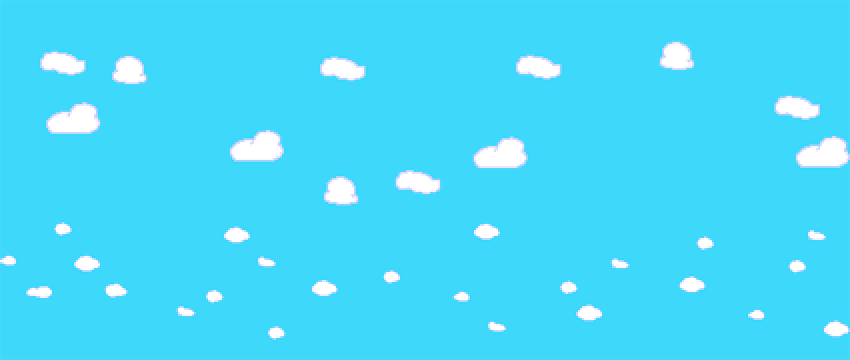
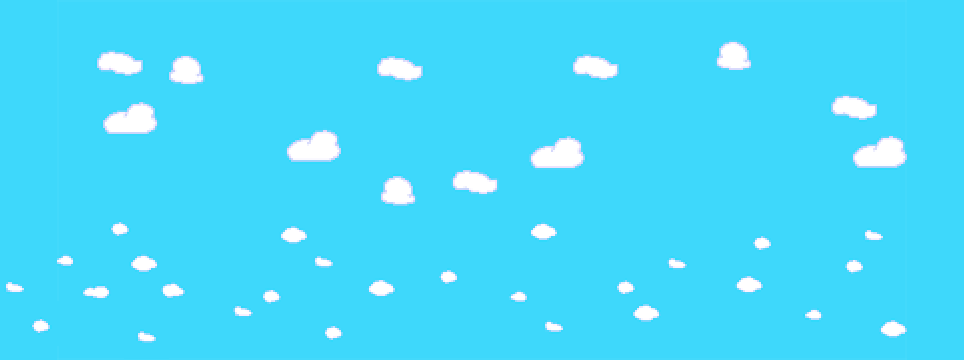
modify world bounds, sky and runway

diff --git a/WebContent/js/Main.js b/WebContent/js/Main.js
@@ -25,8 +25,8 @@ function create() {
 	game.stage.backgroundColor = "#3ed8fb";
 	game.physics.startSystem(Phaser.Physics.ARCADE);
 	game.physics.arcade.gravity.y = 654;
-	game.world.setBounds(0, 0, 8500, 3600);
-	background = game.add.tileSprite(0, 0, 8500, 3600, 'sky');
+	game.world.setBounds(0, 0, 9640, 3600);
+	background = game.add.tileSprite(0, 0, 9640, 3600, 'sky');
 	background.scale.set(10);
 	background.autoScroll(10,0);
 	setLight();
@@ -34,7 +34,7 @@ function create() {
 	runway[0].scale.set(1,0.5);
 	runway[1] = game.add.tileSprite(1130, 3180, 1650, 840, 'runway');
 	runway[1].scale.set(1,0.5);
-	ground = game.add.tileSprite(1640, 3453, 6860, 295, 'ground');
+	ground = game.add.tileSprite(2780, 3453, 6860, 295, 'ground');
 	ground.scale.set(1,0.5);
 	game.physics.enable(runway,Phaser.Physics.ARCADE);
 	game.physics.enable(ground,Phaser.Physics.ARCADE);
